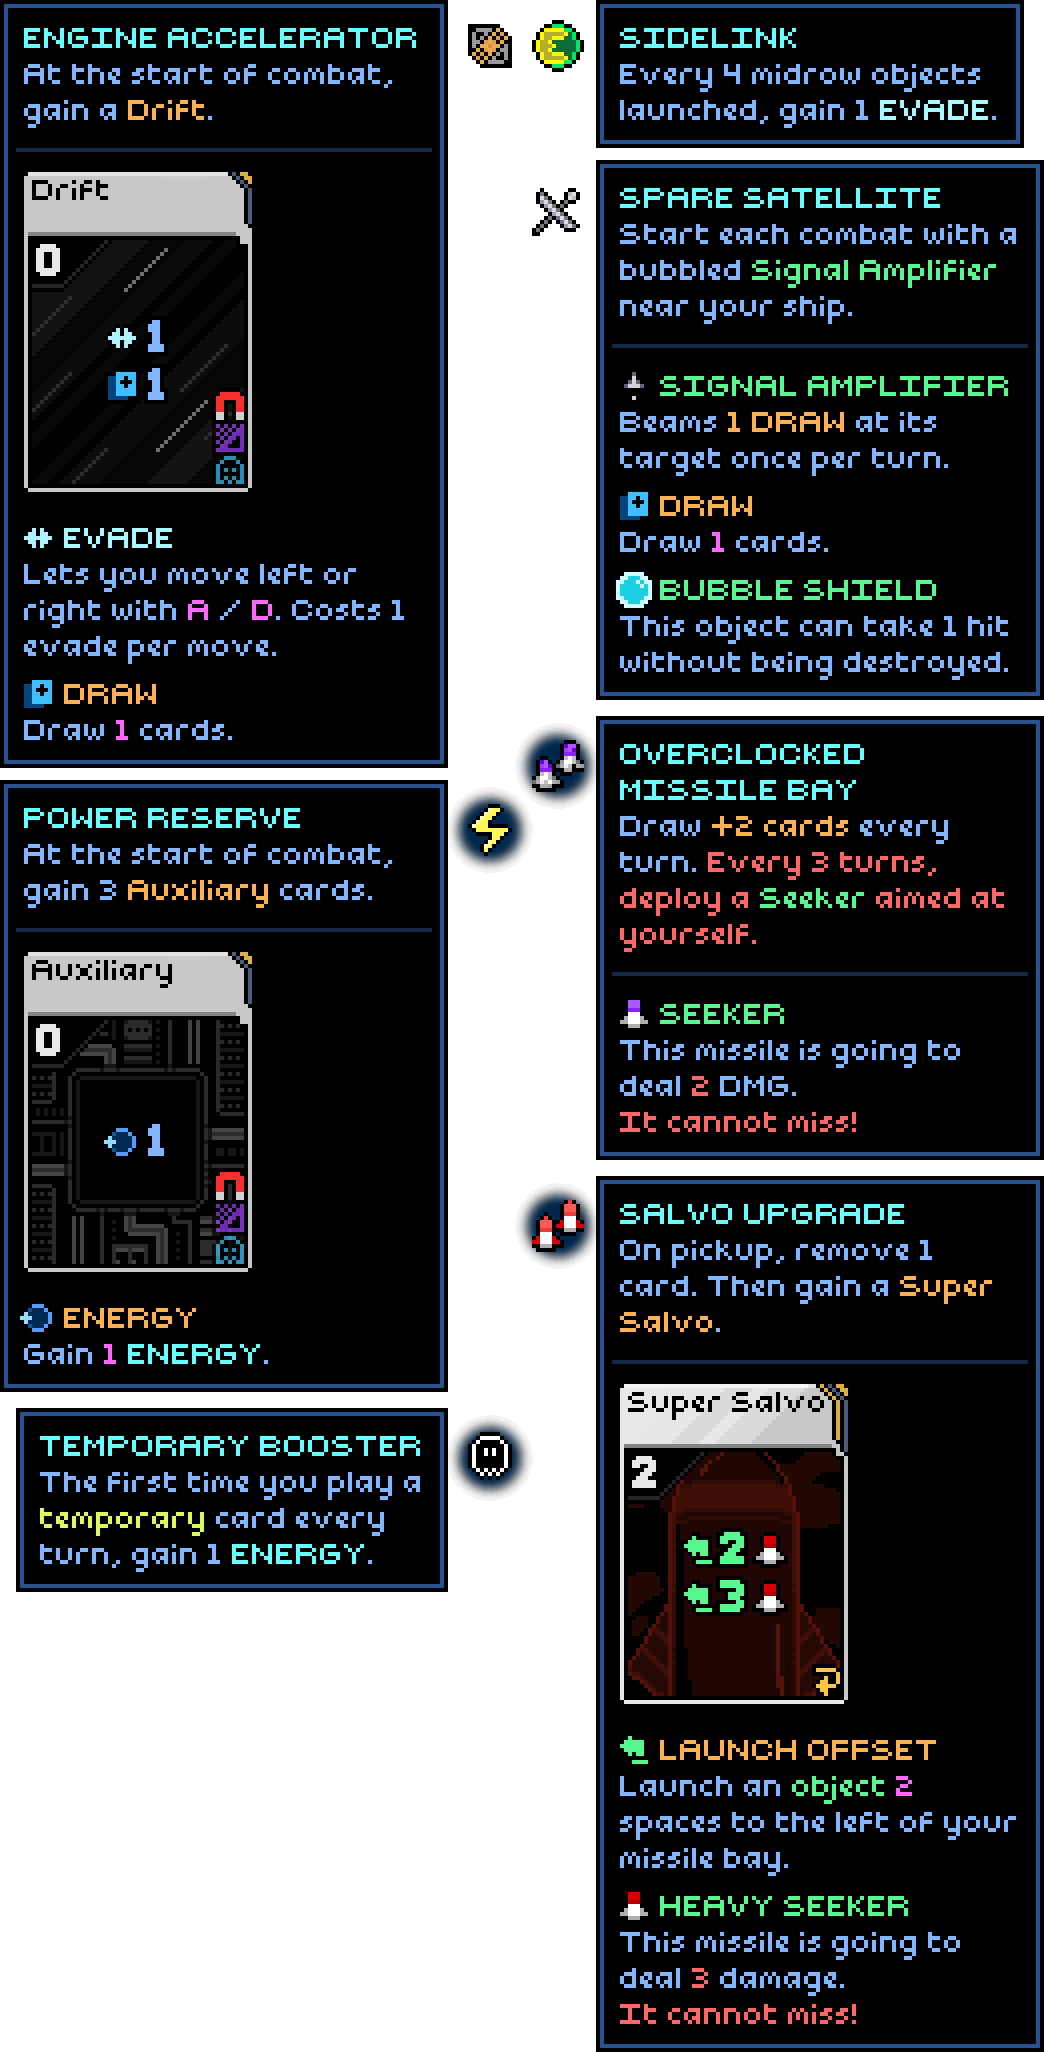
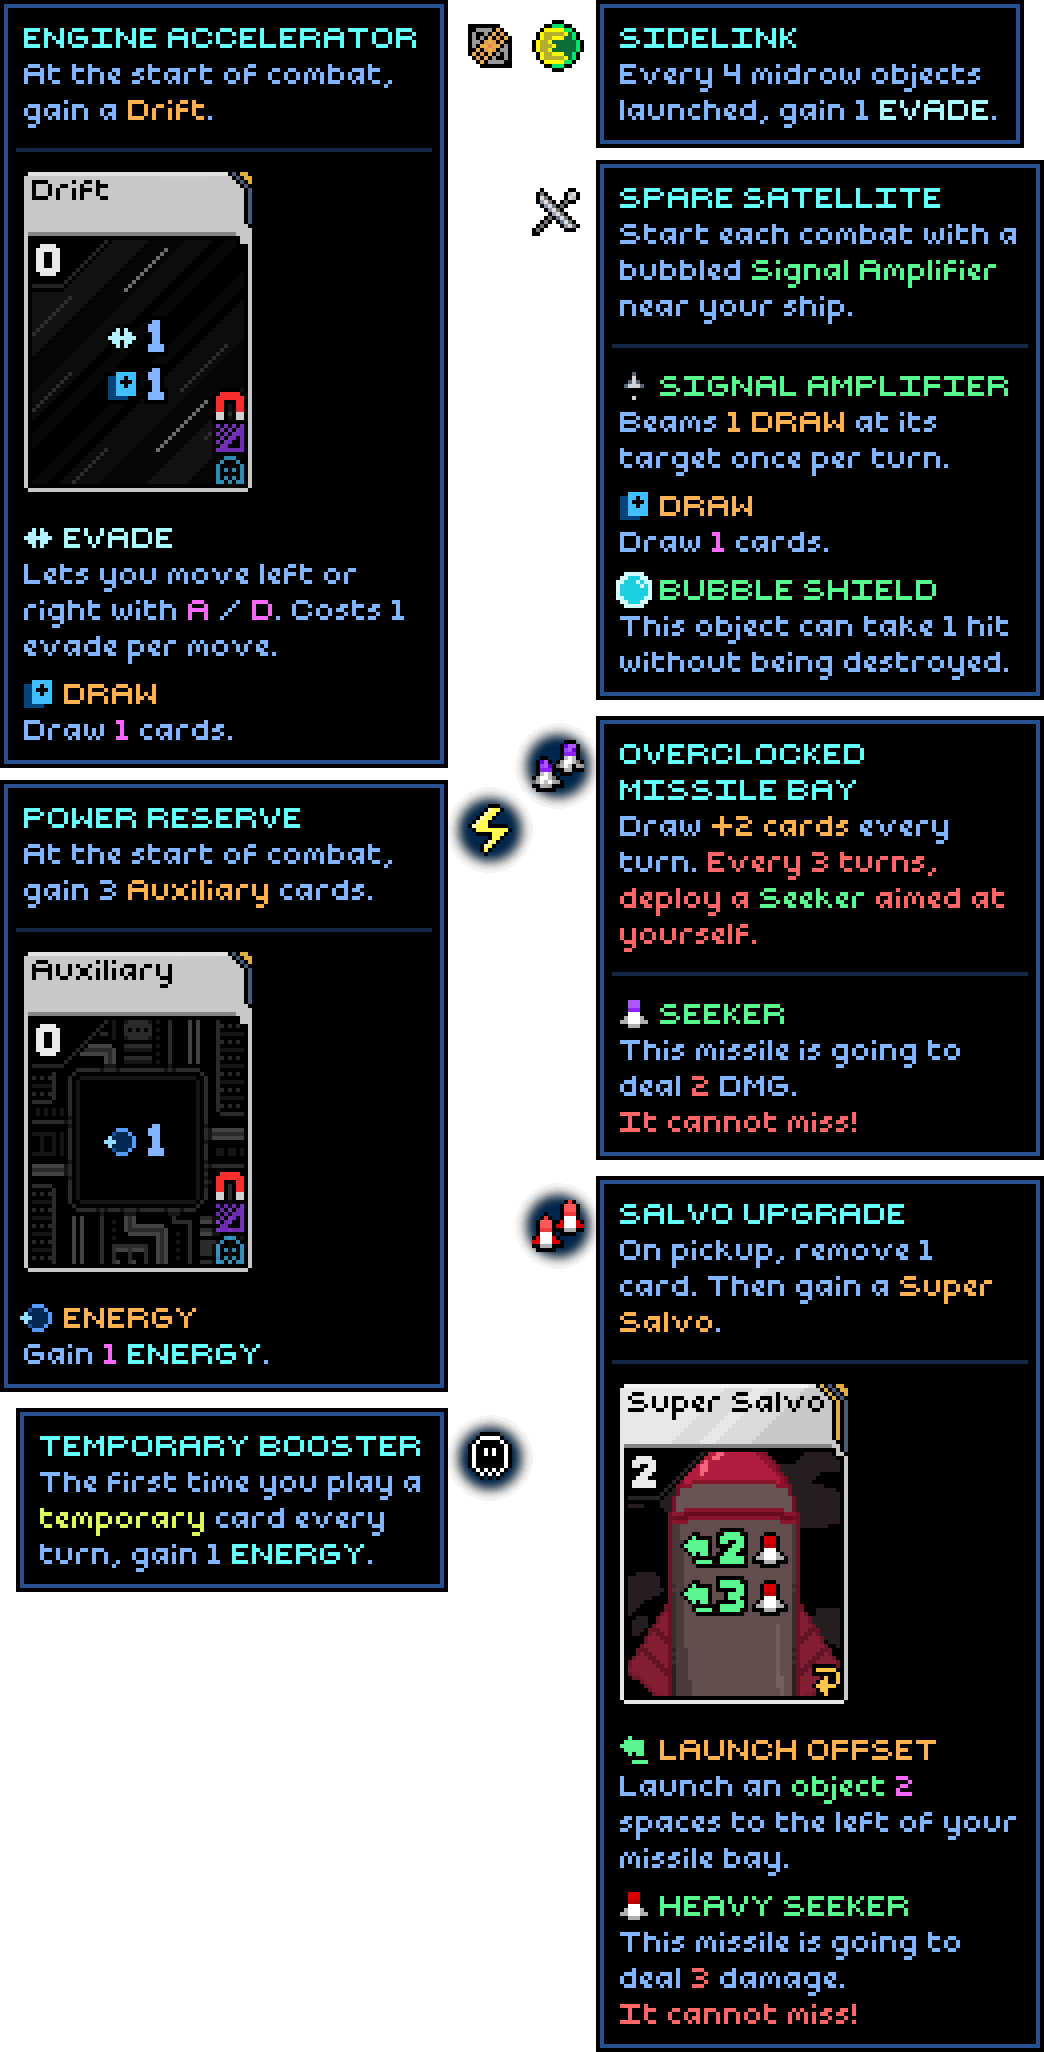
big balance patch

Changed region(s): [[0.5824, 0.6862, 0.8276, 0.8421]]

diff --git a/Cards/VicMinefield.cs b/Cards/VicMinefield.cs
@@ -17,7 +17,7 @@ public class VicMinefield : Card, IRegisterable
             Meta = new CardMeta
             {
                 deck = ModEntry.Instance.VicCharacter.Deck,
-                rarity = Rarity.common,
+                rarity = Rarity.uncommon,
                 dontOffer = false,
                 upgradesTo = [Upgrade.A, Upgrade.B]
             },
@@ -43,15 +43,15 @@ public class VicMinefield : Card, IRegisterable
                     return new CardData
                     {
                         cost = 2,
-                        flippable = false
+                        retain = true
                     };
                 }
             case Upgrade.B:
                 {
                     return new CardData
                     {
-                        cost = 2,
-                        flippable = true
+                        cost = 3,
+                        flippable = false
                     };
                 }
             default:
@@ -99,12 +99,6 @@ public class VicMinefield : Card, IRegisterable
                 {
                     return new List<CardAction>
                     {
-                        new AStatus
-                        {
-                            status = Status.droneShift,
-                            statusAmount = 1,
-                            targetPlayer = true
-                        },
                         new ASpawn
                         {
                             thing = new VicSmallSpaceMine
@@ -128,6 +122,15 @@ public class VicMinefield : Card, IRegisterable
                 {
                     return new List<CardAction>
                     {
+
+                        new ASpawn
+                        {
+                            thing = new VicSmallSpaceMine
+                            {
+                                yAnimation = 0.0
+                            },
+                            offset = 1
+                        },
                         new ASpawn
                         {
                             thing = new VicSmallSpaceMine
@@ -135,19 +138,16 @@ public class VicMinefield : Card, IRegisterable
                                 yAnimation = 0.0
                             }
                         },
-                        new AMove
-                        {
-                            dir = 2,
-                            targetPlayer = true
-                        },
                         new ASpawn
                         {
                             thing = new VicSmallSpaceMine
                             {
                                 yAnimation = 0.0
                             },
+                            offset = -1,
                             dialogueSelector = ".VicSmallMinefield"
-                        },
+                        }
+
                     };
                 }
             default:

diff --git a/Cards/VicTrapCharge.cs b/Cards/VicTrapCharge.cs
@@ -98,17 +98,9 @@ public class VicTrapCharge : Card, IRegisterable
                         {
                             thing = new SpaceMine
                             {
-                                yAnimation = 0.0
-                            },
-                            offset = -1
-                        },
-                        new ASpawn
-                        {
-                            thing = new SpaceMine
-                            {
-                                yAnimation = 0.0
-                            },
-                            offset = 1
+                                yAnimation = 0.0,
+                                bigMine = true
+                            }
                         }
                     };
                 }

diff --git a/Cards/VicGlide.cs b/Cards/VicGlide.cs
@@ -55,7 +55,7 @@ public class VicGlide : Card, IRegisterable
                     {
                         cost = 0,
                         temporary = true,
-                        exhaust = false,
+                        exhaust = true,
                         retain = true,
                         flippable = true,
                         art = flipped ? GlideArtFlipped.Sprite : GlideArtNormal.Sprite
@@ -69,7 +69,7 @@ public class VicGlide : Card, IRegisterable
                         temporary = true,
                         exhaust = true,
                         retain = true,
-                        flippable = true,
+                        flippable = false,
                         art = flipped ? GlideArtFlipped.Sprite : GlideArtNormal.Sprite
                     };
                 }
@@ -109,12 +109,7 @@ public class VicGlide : Card, IRegisterable
                     {
                         new AMove
                         {
-                            dir = -1,
-                            targetPlayer = true
-                        },
-                        new AMove
-                        {
-                            dir = -1,
+                            dir = -2,
                             targetPlayer = true
                         }
                     };
@@ -125,7 +120,7 @@ public class VicGlide : Card, IRegisterable
                     {
                         new AMove
                         {
-                            dir = -2,
+                            dir = -1,
                             targetPlayer = true
                         }
                     };

diff --git a/Cards/VicManeuver.cs b/Cards/VicManeuver.cs
@@ -42,7 +42,7 @@ public class VicManeuver : Card, IRegisterable
                 {
                     return new CardData
                     {
-                        cost = 0,
+                        cost = 1,
                         description = string.Format(ModEntry.Instance.Localizations.Localize(["card", "VicManeuver", "descA"]))
                     };
                 }
@@ -94,6 +94,7 @@ public class VicManeuver : Card, IRegisterable
                         {
                             card = new VicGlide()
                             {
+                                upgrade = Upgrade.A
                             },
                             destination = CardDestination.Hand,
                             amount = 1,
@@ -104,6 +105,14 @@ public class VicManeuver : Card, IRegisterable
                 {
                     return new List<CardAction>
                     {
+                        new AAddCard()
+                        {
+                            card = new VicGlide()
+                            {
+                            },
+                            destination = CardDestination.Hand,
+                            amount = 1
+                        },
                         new AAddCard()
                         {
                             card = new VicGlide()

diff --git a/Cards/VicMobileMine.cs b/Cards/VicMobileMine.cs
@@ -51,8 +51,8 @@ public class VicMobileMine : Card, IRegisterable
                         {
                             thing = new SpaceMine
                             {
-                                yAnimation = 0.0,
-                                bigMine = true
+                                yAnimation = 0.0
+                                //bigMine = true
                             },
                             dialogueSelector = ".VicMobileMine"
                         }
@@ -65,7 +65,7 @@ public class VicMobileMine : Card, IRegisterable
                         new AStatus
                         {
                             status = Status.droneShift,
-                            statusAmount = 3,
+                            statusAmount = 2,
                             targetPlayer = true
                         },
                         new ASpawn
@@ -99,8 +99,8 @@ public class VicMobileMine : Card, IRegisterable
                         {
                             thing = new SpaceMine
                             {
-                                yAnimation = 0.0,
-                                bigMine = true
+                                yAnimation = 0.0
+                                //bigMine = true
                             },
                             dialogueSelector = ".VicMobileMine"
                         }

diff --git a/Cards/VicBlockade.cs b/Cards/VicBlockade.cs
@@ -93,17 +93,11 @@ public class VicBlockade : Card, IRegisterable
                 {
                     return new List<CardAction>
                     {
-                        
-                        new AStatus()
-                        {
-                            status = Status.droneShift,
-                            statusAmount = 2,
-                            targetPlayer = true
-                        },
                         new AAddCard()
                         {
                             card = new VicTrapCharge()
                             {
+                                upgrade = Upgrade.A
                             },
                             destination = CardDestination.Hand,
                             amount = 3,

diff --git a/obj/Release/net8.0/VicCharacter.AssemblyInfo.cs b/obj/Release/net8.0/VicCharacter.AssemblyInfo.cs
@@ -13,11 +13,11 @@ using System.Reflection;
 
 [assembly: System.Reflection.AssemblyCompanyAttribute("VicCharacter")]
 [assembly: System.Reflection.AssemblyConfigurationAttribute("Release")]
-[assembly: System.Reflection.AssemblyFileVersionAttribute("1.7.1.0")]
-[assembly: System.Reflection.AssemblyInformationalVersionAttribute("1.7.1+038a2a2d1ded799e29e9e470392fde761256e0fa")]
+[assembly: System.Reflection.AssemblyFileVersionAttribute("1.7.2.0")]
+[assembly: System.Reflection.AssemblyInformationalVersionAttribute("1.7.2+3f03e27930bc66811575175b47fc7e23a02c120e")]
 [assembly: System.Reflection.AssemblyProductAttribute("VicCharacter")]
 [assembly: System.Reflection.AssemblyTitleAttribute("VicCharacter")]
-[assembly: System.Reflection.AssemblyVersionAttribute("1.7.1.0")]
+[assembly: System.Reflection.AssemblyVersionAttribute("1.7.2.0")]
 
 // Generated by the MSBuild WriteCodeFragment class.
 

diff --git a/ModEntry.cs b/ModEntry.cs
@@ -110,15 +110,15 @@ internal class ModEntry : SimpleMod
         typeof(VicCrisisManagement),
         typeof(VicMobileMine),
         typeof(VicSignalAmplifierCard),
-        typeof(VicMinefield)
+        typeof(VicShifterDroneCard)
     ];
     private static List<Type> VicCharacterUncommonCardTypes = [
         typeof(VicSensorOverload),
-        typeof(VicShifterDroneCard),
         typeof(VicBlockade),
         typeof(VicEngineBoosterCard),
         typeof(VicPoisonMissile),
         typeof(VicRowControl),
+        typeof(VicMinefield),
         typeof(VicSiphon)
     ];
     private static List<Type> VicCharacterRareCardTypes = [

diff --git a/Cards/VicPlan.cs b/Cards/VicPlan.cs
@@ -93,7 +93,7 @@ public class VicPlan : Card, IRegisterable
                     {
                         new ADrawCard
                         {
-                            count = 4
+                            count = 3
                         }
                     };
                 }

diff --git a/Cards/VicShifterDroneCard.cs b/Cards/VicShifterDroneCard.cs
@@ -17,7 +17,7 @@ public class VicShifterDroneCard : Card, IRegisterable
             Meta = new CardMeta
             {
                 deck = ModEntry.Instance.VicCharacter.Deck,
-                rarity = Rarity.uncommon,
+                rarity = Rarity.common,
                 dontOffer = false,
                 upgradesTo = [Upgrade.A, Upgrade.B]
             },